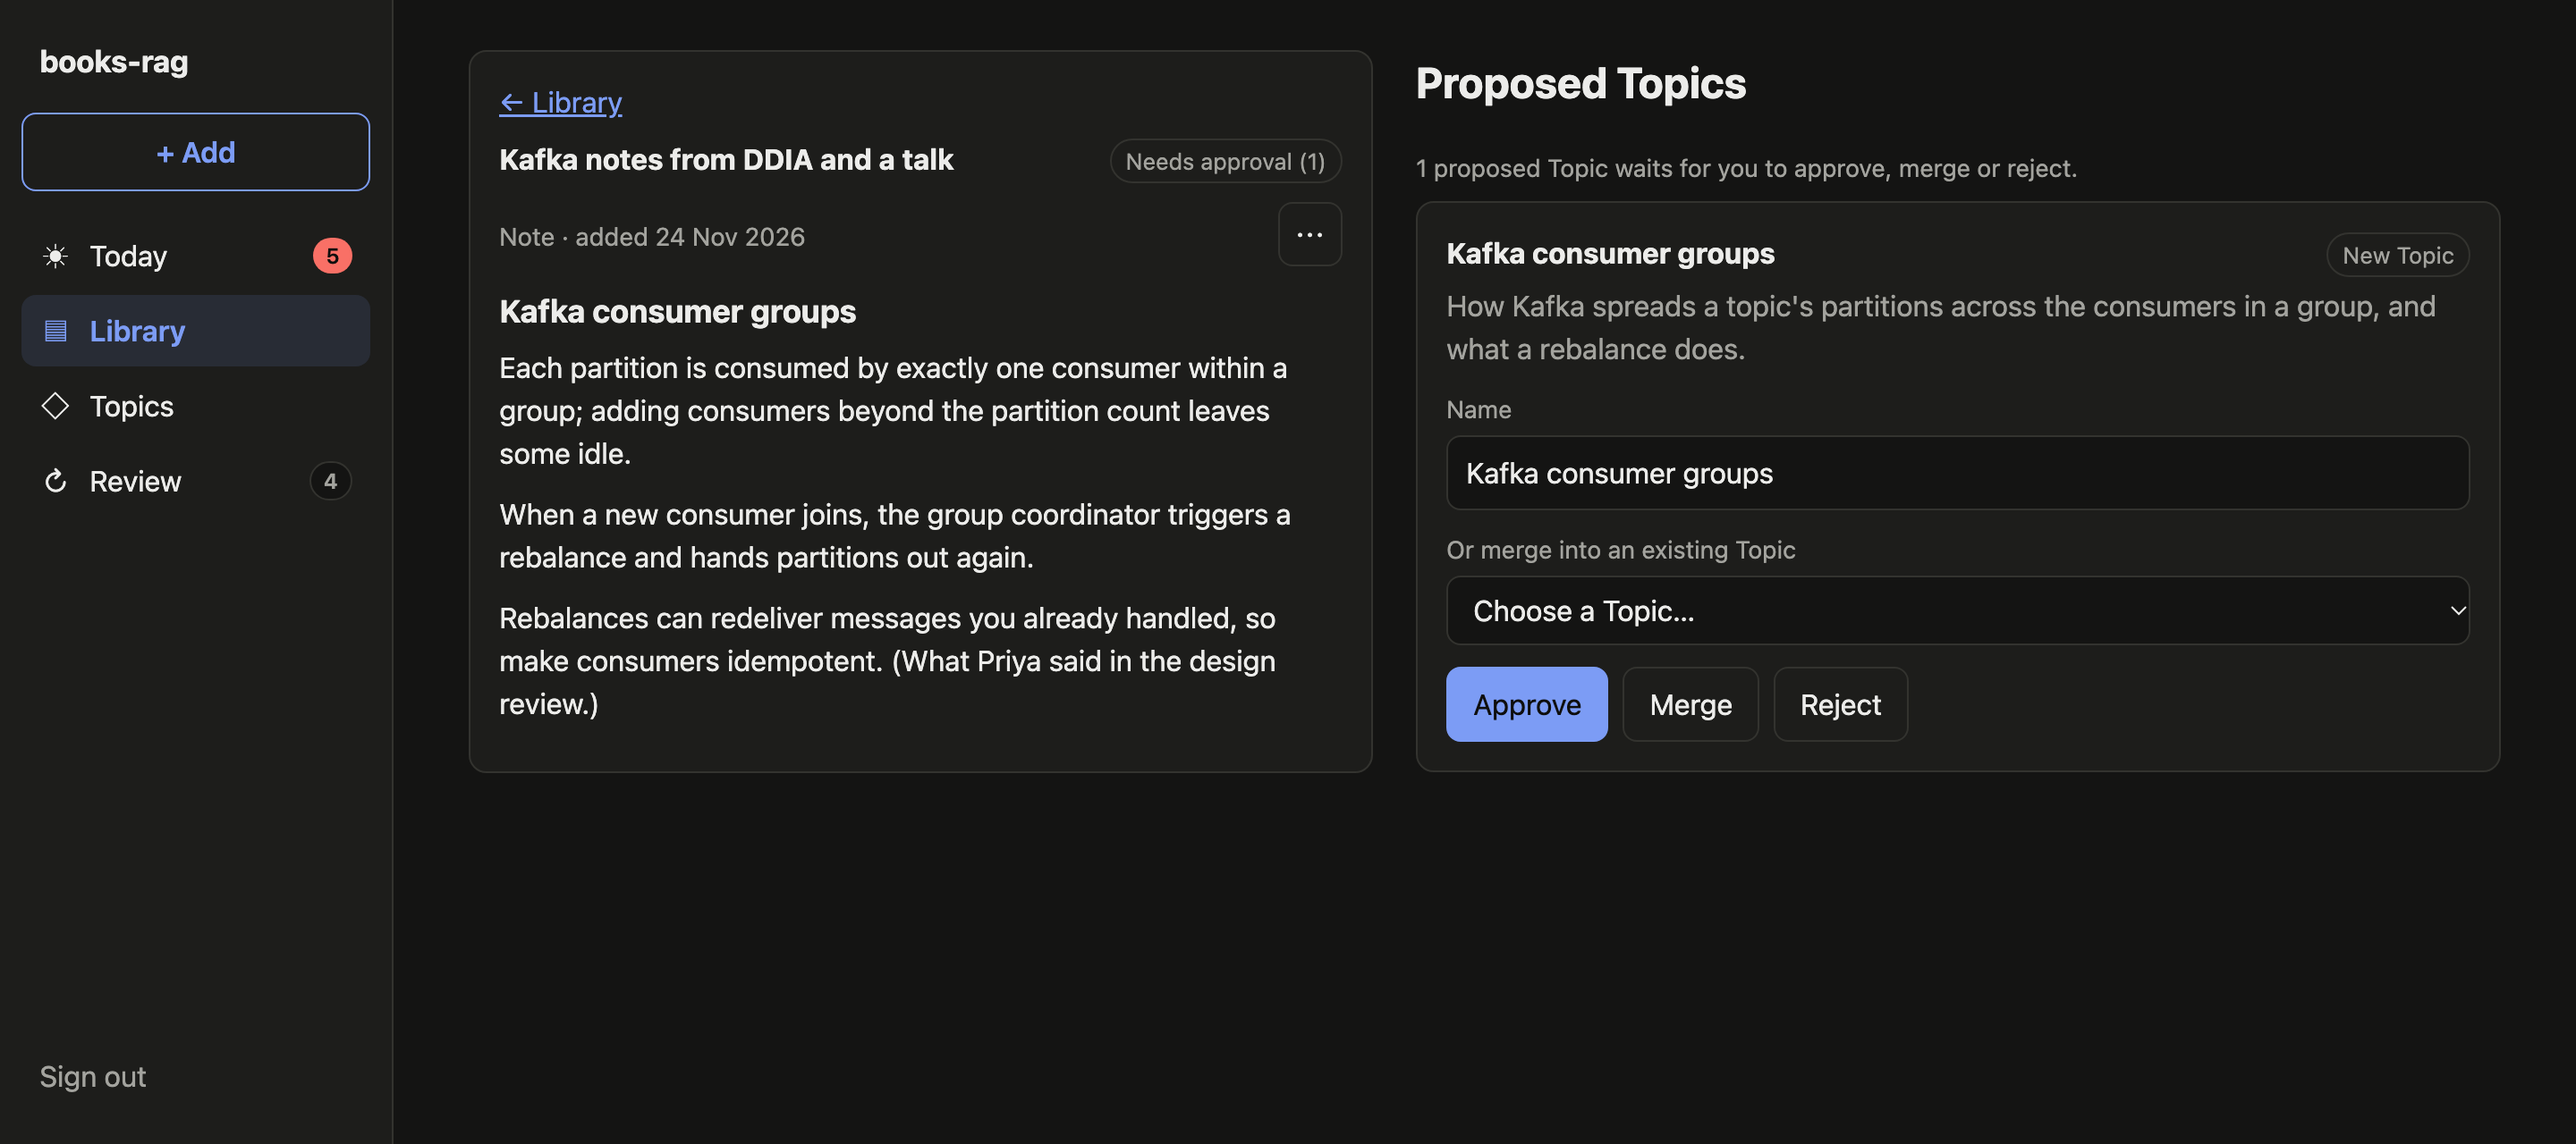
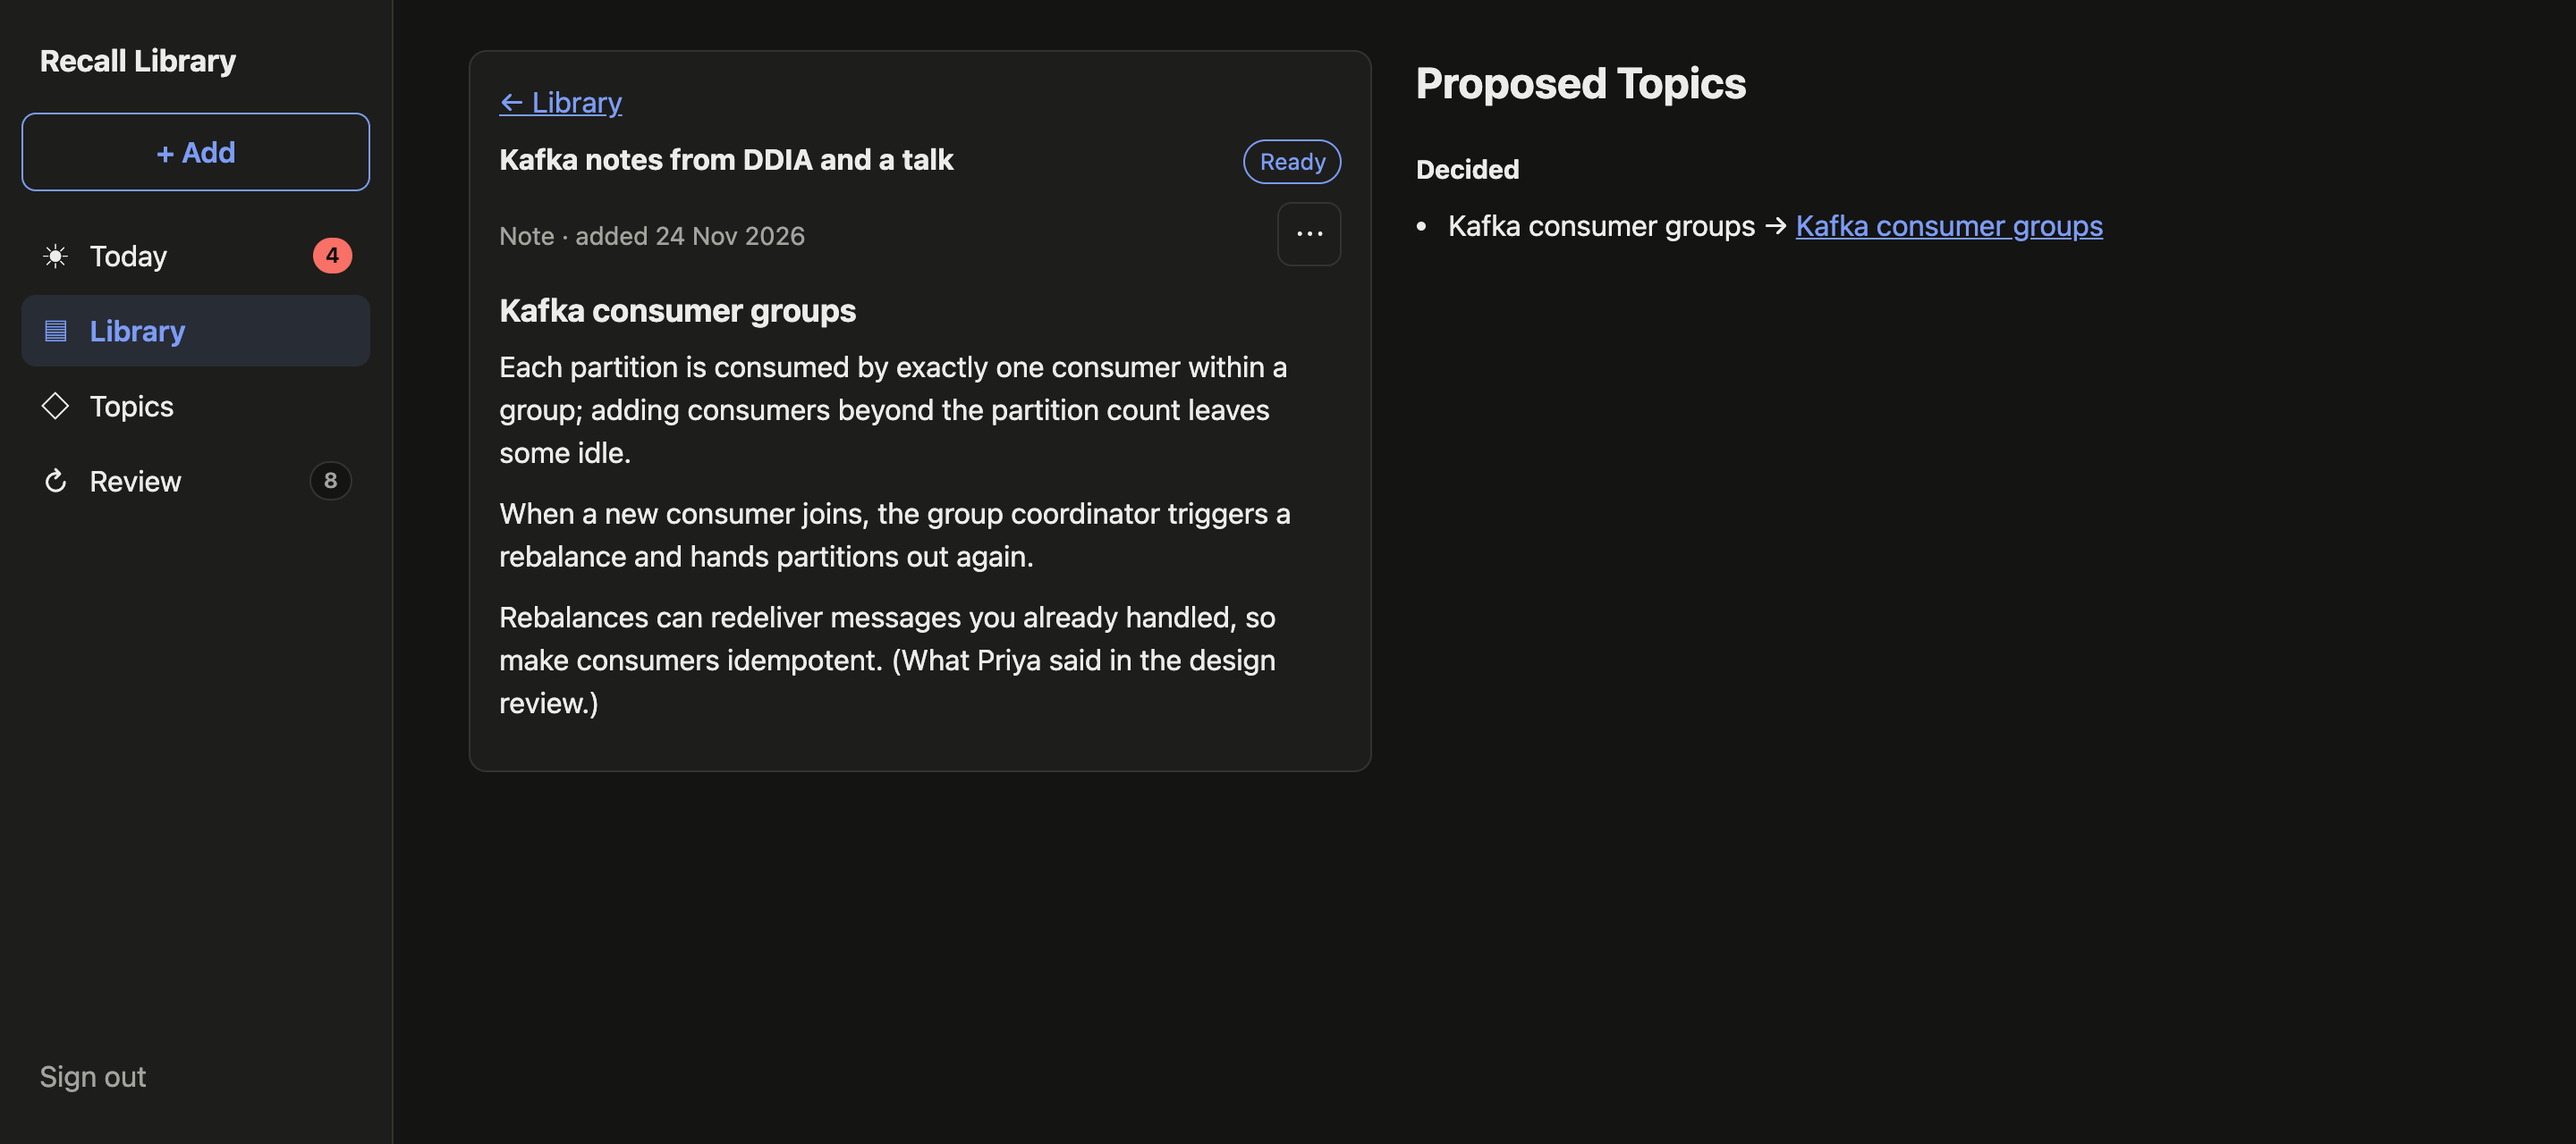
Rename the app to Recall Library in the UI
Sidebar, sign-in page, page title and PWA manifest now say Recall Library
(short name Recall), and the article fetcher's user agent uses the new
name. README screenshots are retaken to match, and the README's test count
is corrected to about 240.

diff --git a/src/app/(app)/app-nav.tsx b/src/app/(app)/app-nav.tsx
@@ -56,7 +56,7 @@ export function AppNav({ counts, signOut }: { counts: NavCounts; signOut: React.
     <>
       <header className="phone-header">
         <Link href="/" className="brand">
-          books-rag
+          Recall Library
         </Link>
         <div className="phone-header-actions">
           {signOut}
@@ -67,7 +67,7 @@ export function AppNav({ counts, signOut }: { counts: NavCounts; signOut: React.
       </header>
       <nav className="rail" aria-label="Main">
         <Link href="/" className="brand">
-          books-rag
+          Recall Library
         </Link>
         <Link href="/add" className={addActive ? "add-button active" : "add-button"}>
           + Add

diff --git a/src/app/layout.tsx b/src/app/layout.tsx
@@ -3,10 +3,10 @@ import "./globals.css";
 import { RegisterServiceWorker } from "./register-service-worker";
 
 export const metadata: Metadata = {
-  title: "books-rag",
+  title: "Recall Library",
   description: "Remember what you read, watch and learn.",
   // The manifest itself comes from app/manifest.ts; these cover iOS's "Add to Home Screen".
-  appleWebApp: { capable: true, title: "books-rag", statusBarStyle: "default" },
+  appleWebApp: { capable: true, title: "Recall Library", statusBarStyle: "default" },
   icons: { icon: "/icons/icon-192.png", apple: "/icons/apple-touch-icon.png" },
 };
 

diff --git a/src/adapters/article-fetcher.ts b/src/adapters/article-fetcher.ts
@@ -43,7 +43,7 @@ async function download(doFetch: typeof fetch, url: string, timeoutMs: number): 
       redirect: "follow",
       headers: {
         accept: "text/html,application/xhtml+xml;q=0.9,*/*;q=0.5",
-        "user-agent": "Mozilla/5.0 (compatible; books-rag article reader)",
+        "user-agent": "Mozilla/5.0 (compatible; recall-library article reader)",
       },
     });
   } catch {

diff --git a/src/app/manifest.ts b/src/app/manifest.ts
@@ -8,8 +8,8 @@ import type { MetadataRoute } from "next";
 export default function manifest(): MetadataRoute.Manifest & { share_target: ShareTarget } {
   return {
     id: "/",
-    name: "books-rag",
-    short_name: "books-rag",
+    name: "Recall Library",
+    short_name: "Recall",
     description: "Remember what you read, watch and learn.",
     start_url: "/",
     scope: "/",

diff --git a/src/app/signin/page.tsx b/src/app/signin/page.tsx
@@ -11,7 +11,7 @@ export default async function SignInPage({
 
   return (
     <main className="signin panel">
-      <h1>books-rag</h1>
+      <h1>Recall Library</h1>
       {error === "AccessDenied" ? (
         <p className="error">That Google account is not allowed to use this app.</p>
       ) : error ? (

diff --git a/README.md b/README.md
@@ -96,7 +96,7 @@ flowchart LR
 6. **Build in parallel.** Agents worked on separate tickets at the same time in isolated git
    worktrees, each merging into a shared v1 branch
    ([PR #21](https://github.com/sohamthebuilder/recall-library/pull/21)).
-7. **Test behaviour, not internals.** Around 450 automated tests exercise the application core
+7. **Test behaviour, not internals.** Around 240 automated tests exercise the application core
    against a real (in-process) database with scripted fake AI, e.g. "a new Source on an edited
    Topic produces Suggested Edits, never a new Explainer version".
 8. **Review, then use it.** A code-review pass fixed issues across tickets. Then I used the app
